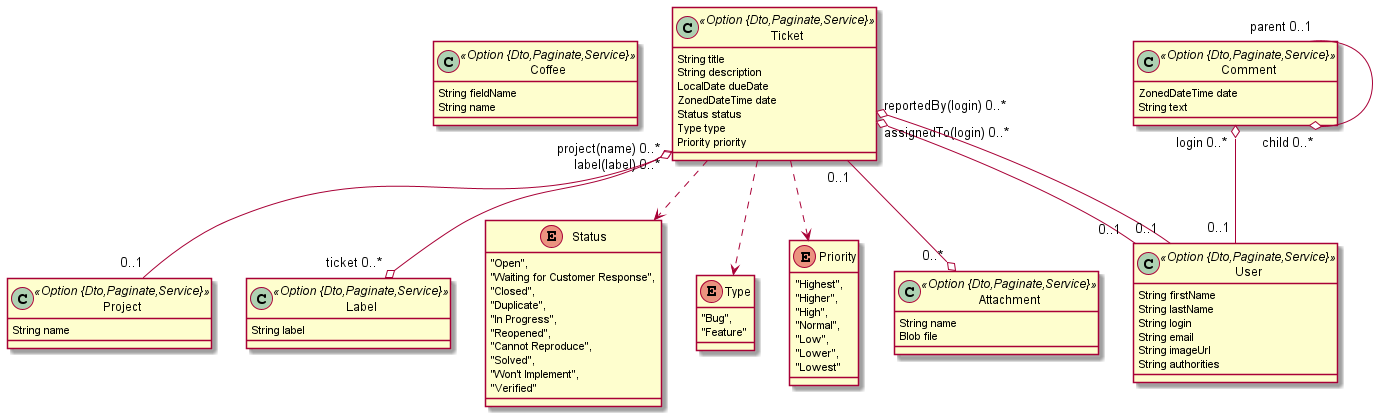
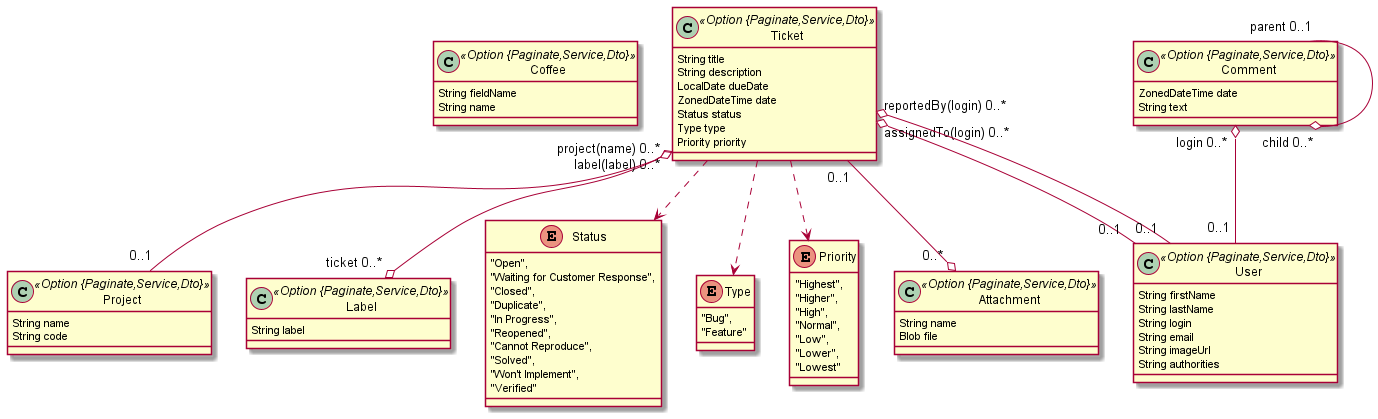
update entity

diff --git a/src/main/webapp/app/entities/project/update/project-update.component.html b/src/main/webapp/app/entities/project/update/project-update.component.html
@@ -17,6 +17,29 @@
           <label class="form-label" jhiTranslate="myFirstApp.project.name" for="field_name">Name</label>
           <input type="text" class="form-control" name="name" id="field_name" data-cy="name" formControlName="name" />
         </div>
+
+        <div class="row mb-3">
+          <label class="form-label" jhiTranslate="myFirstApp.project.code" for="field_code">Code</label>
+          <input type="text" class="form-control" name="code" id="field_code" data-cy="code" formControlName="code" />
+          <div *ngIf="editForm.get('code')!.invalid && (editForm.get('code')!.dirty || editForm.get('code')!.touched)">
+            <small
+              class="form-text text-danger"
+              *ngIf="editForm.get('code')?.errors?.minlength"
+              jhiTranslate="entity.validation.minlength"
+              [translateValues]="{ min: 3 }"
+            >
+              This field is required to be at least 3 characters.
+            </small>
+            <small
+              class="form-text text-danger"
+              *ngIf="editForm.get('code')?.errors?.maxlength"
+              jhiTranslate="entity.validation.maxlength"
+              [translateValues]="{ max: 5 }"
+            >
+              This field cannot be longer than 5 characters.
+            </small>
+          </div>
+        </div>
       </div>
 
       <div>

diff --git a/src/main/webapp/app/entities/project/list/project.component.html b/src/main/webapp/app/entities/project/list/project.component.html
@@ -44,6 +44,12 @@
               <fa-icon class="p-1" icon="sort"></fa-icon>
             </div>
           </th>
+          <th scope="col" jhiSortBy="code">
+            <div class="d-flex">
+              <span jhiTranslate="myFirstApp.project.code">Code</span>
+              <fa-icon class="p-1" icon="sort"></fa-icon>
+            </div>
+          </th>
           <th scope="col"></th>
         </tr>
       </thead>
@@ -53,6 +59,7 @@
             <a [routerLink]="['/project', project.id, 'view']">{{ project.id }}</a>
           </td>
           <td>{{ project.name }}</td>
+          <td>{{ project.code }}</td>
           <td class="text-end">
             <div class="btn-group">
               <button

diff --git a/src/main/webapp/app/entities/project/update/project-form.service.ts b/src/main/webapp/app/entities/project/update/project-form.service.ts
@@ -19,6 +19,7 @@ type ProjectFormDefaults = Pick<NewProject, 'id'>;
 type ProjectFormGroupContent = {
   id: FormControl<IProject['id'] | NewProject['id']>;
   name: FormControl<IProject['name']>;
+  code: FormControl<IProject['code']>;
 };
 
 export type ProjectFormGroup = FormGroup<ProjectFormGroupContent>;
@@ -39,6 +40,9 @@ export class ProjectFormService {
         }
       ),
       name: new FormControl(projectRawValue.name),
+      code: new FormControl(projectRawValue.code, {
+        validators: [Validators.minLength(3), Validators.maxLength(5)],
+      }),
     });
   }
 

diff --git a/src/main/webapp/app/entities/project/update/project-form.service.spec.ts b/src/main/webapp/app/entities/project/update/project-form.service.spec.ts
@@ -21,6 +21,7 @@ describe('Project Form Service', () => {
           expect.objectContaining({
             id: expect.any(Object),
             name: expect.any(Object),
+            code: expect.any(Object),
           })
         );
       });
@@ -32,6 +33,7 @@ describe('Project Form Service', () => {
           expect.objectContaining({
             id: expect.any(Object),
             name: expect.any(Object),
+            code: expect.any(Object),
           })
         );
       });

diff --git a/src/main/webapp/app/entities/project/project.test-samples.ts b/src/main/webapp/app/entities/project/project.test-samples.ts
@@ -5,13 +5,15 @@ export const sampleWithRequiredData: IProject = {
 };
 
 export const sampleWithPartialData: IProject = {
-  id: 86564,
-  name: 'compress redefine',
+  id: 56052,
+  name: 'dedicated Agent deposit',
+  code: 'users',
 };
 
 export const sampleWithFullData: IProject = {
-  id: 60153,
-  name: 'Awesome users',
+  id: 24713,
+  name: 'Borders Health',
+  code: 'Respo',
 };
 
 export const sampleWithNewData: NewProject = {

diff --git a/src/test/javascript/cypress/e2e/entity/project.cy.ts b/src/test/javascript/cypress/e2e/entity/project.cy.ts
@@ -162,6 +162,8 @@ describe('Project e2e test', () => {
     it('should create an instance of Project', () => {
       cy.get(`[data-cy="name"]`).type('District').should('have.value', 'District');
 
+      cy.get(`[data-cy="code"]`).type('inter').should('have.value', 'inter');
+
       cy.get(entityCreateSaveButtonSelector).click();
 
       cy.wait('@postEntityRequest').then(({ response }) => {

diff --git a/src/main/webapp/app/entities/project/detail/project-detail.component.html b/src/main/webapp/app/entities/project/detail/project-detail.component.html
@@ -18,6 +18,10 @@
         <dd>
           <span>{{ project.name }}</span>
         </dd>
+        <dt><span jhiTranslate="myFirstApp.project.code">Code</span></dt>
+        <dd>
+          <span>{{ project.code }}</span>
+        </dd>
       </dl>
 
       <button type="submit" (click)="previousState()" class="btn btn-info" data-cy="entityDetailsBackButton">

diff --git a/src/main/webapp/app/entities/project/project.model.ts b/src/main/webapp/app/entities/project/project.model.ts
@@ -1,6 +1,7 @@
 export interface IProject {
   id: number;
   name?: string | null;
+  code?: string | null;
 }
 
 export type NewProject = Omit<IProject, 'id'> & { id: null };

diff --git a/src/test/java/com/mycompany/myapp/web/rest/ProjectResourceIT.java b/src/test/java/com/mycompany/myapp/web/rest/ProjectResourceIT.java
@@ -34,6 +34,9 @@ class ProjectResourceIT {
     private static final String DEFAULT_NAME = "AAAAAAAAAA";
     private static final String UPDATED_NAME = "BBBBBBBBBB";
 
+    private static final String DEFAULT_CODE = "AAAAA";
+    private static final String UPDATED_CODE = "BBBBB";
+
     private static final String ENTITY_API_URL = "/api/projects";
     private static final String ENTITY_API_URL_ID = ENTITY_API_URL + "/{id}";
 
@@ -61,7 +64,7 @@ class ProjectResourceIT {
      * if they test an entity which requires the current entity.
      */
     public static Project createEntity(EntityManager em) {
-        Project project = new Project().name(DEFAULT_NAME);
+        Project project = new Project().name(DEFAULT_NAME).code(DEFAULT_CODE);
         return project;
     }
 
@@ -72,7 +75,7 @@ class ProjectResourceIT {
      * if they test an entity which requires the current entity.
      */
     public static Project createUpdatedEntity(EntityManager em) {
-        Project project = new Project().name(UPDATED_NAME);
+        Project project = new Project().name(UPDATED_NAME).code(UPDATED_CODE);
         return project;
     }
 
@@ -96,6 +99,7 @@ class ProjectResourceIT {
         assertThat(projectList).hasSize(databaseSizeBeforeCreate + 1);
         Project testProject = projectList.get(projectList.size() - 1);
         assertThat(testProject.getName()).isEqualTo(DEFAULT_NAME);
+        assertThat(testProject.getCode()).isEqualTo(DEFAULT_CODE);
     }
 
     @Test
@@ -129,7 +133,8 @@ class ProjectResourceIT {
             .andExpect(status().isOk())
             .andExpect(content().contentType(MediaType.APPLICATION_JSON_VALUE))
             .andExpect(jsonPath("$.[*].id").value(hasItem(project.getId().intValue())))
-            .andExpect(jsonPath("$.[*].name").value(hasItem(DEFAULT_NAME)));
+            .andExpect(jsonPath("$.[*].name").value(hasItem(DEFAULT_NAME)))
+            .andExpect(jsonPath("$.[*].code").value(hasItem(DEFAULT_CODE)));
     }
 
     @Test
@@ -144,7 +149,8 @@ class ProjectResourceIT {
             .andExpect(status().isOk())
             .andExpect(content().contentType(MediaType.APPLICATION_JSON_VALUE))
             .andExpect(jsonPath("$.id").value(project.getId().intValue()))
-            .andExpect(jsonPath("$.name").value(DEFAULT_NAME));
+            .andExpect(jsonPath("$.name").value(DEFAULT_NAME))
+            .andExpect(jsonPath("$.code").value(DEFAULT_CODE));
     }
 
     @Test
@@ -166,7 +172,7 @@ class ProjectResourceIT {
         Project updatedProject = projectRepository.findById(project.getId()).get();
         // Disconnect from session so that the updates on updatedProject are not directly saved in db
         em.detach(updatedProject);
-        updatedProject.name(UPDATED_NAME);
+        updatedProject.name(UPDATED_NAME).code(UPDATED_CODE);
         ProjectDTO projectDTO = projectMapper.toDto(updatedProject);
 
         restProjectMockMvc
@@ -182,6 +188,7 @@ class ProjectResourceIT {
         assertThat(projectList).hasSize(databaseSizeBeforeUpdate);
         Project testProject = projectList.get(projectList.size() - 1);
         assertThat(testProject.getName()).isEqualTo(UPDATED_NAME);
+        assertThat(testProject.getCode()).isEqualTo(UPDATED_CODE);
     }
 
     @Test
@@ -276,6 +283,7 @@ class ProjectResourceIT {
         assertThat(projectList).hasSize(databaseSizeBeforeUpdate);
         Project testProject = projectList.get(projectList.size() - 1);
         assertThat(testProject.getName()).isEqualTo(UPDATED_NAME);
+        assertThat(testProject.getCode()).isEqualTo(DEFAULT_CODE);
     }
 
     @Test
@@ -290,7 +298,7 @@ class ProjectResourceIT {
         Project partialUpdatedProject = new Project();
         partialUpdatedProject.setId(project.getId());
 
-        partialUpdatedProject.name(UPDATED_NAME);
+        partialUpdatedProject.name(UPDATED_NAME).code(UPDATED_CODE);
 
         restProjectMockMvc
             .perform(
@@ -305,6 +313,7 @@ class ProjectResourceIT {
         assertThat(projectList).hasSize(databaseSizeBeforeUpdate);
         Project testProject = projectList.get(projectList.size() - 1);
         assertThat(testProject.getName()).isEqualTo(UPDATED_NAME);
+        assertThat(testProject.getCode()).isEqualTo(UPDATED_CODE);
     }
 
     @Test

diff --git a/src/main/java/com/mycompany/myapp/web/rest/ProjectResource.java b/src/main/java/com/mycompany/myapp/web/rest/ProjectResource.java
@@ -9,6 +9,8 @@ import java.net.URISyntaxException;
 import java.util.List;
 import java.util.Objects;
 import java.util.Optional;
+import javax.validation.Valid;
+import javax.validation.constraints.NotNull;
 import org.slf4j.Logger;
 import org.slf4j.LoggerFactory;
 import org.springframework.beans.factory.annotation.Value;
@@ -54,7 +56,7 @@ public class ProjectResource {
      * @throws URISyntaxException if the Location URI syntax is incorrect.
      */
     @PostMapping("/projects")
-    public ResponseEntity<ProjectDTO> createProject(@RequestBody ProjectDTO projectDTO) throws URISyntaxException {
+    public ResponseEntity<ProjectDTO> createProject(@Valid @RequestBody ProjectDTO projectDTO) throws URISyntaxException {
         log.debug("REST request to save Project : {}", projectDTO);
         if (projectDTO.getId() != null) {
             throw new BadRequestAlertException("A new project cannot already have an ID", ENTITY_NAME, "idexists");
@@ -79,7 +81,7 @@ public class ProjectResource {
     @PutMapping("/projects/{id}")
     public ResponseEntity<ProjectDTO> updateProject(
         @PathVariable(value = "id", required = false) final Long id,
-        @RequestBody ProjectDTO projectDTO
+        @Valid @RequestBody ProjectDTO projectDTO
     ) throws URISyntaxException {
         log.debug("REST request to update Project : {}, {}", id, projectDTO);
         if (projectDTO.getId() == null) {
@@ -114,7 +116,7 @@ public class ProjectResource {
     @PatchMapping(value = "/projects/{id}", consumes = { "application/json", "application/merge-patch+json" })
     public ResponseEntity<ProjectDTO> partialUpdateProject(
         @PathVariable(value = "id", required = false) final Long id,
-        @RequestBody ProjectDTO projectDTO
+        @NotNull @RequestBody ProjectDTO projectDTO
     ) throws URISyntaxException {
         log.debug("REST request to partial update Project partially : {}, {}", id, projectDTO);
         if (projectDTO.getId() == null) {

diff --git a/src/main/java/com/mycompany/myapp/domain/Project.java b/src/main/java/com/mycompany/myapp/domain/Project.java
@@ -2,6 +2,7 @@ package com.mycompany.myapp.domain;
 
 import java.io.Serializable;
 import javax.persistence.*;
+import javax.validation.constraints.*;
 import org.hibernate.annotations.Cache;
 import org.hibernate.annotations.CacheConcurrencyStrategy;
 
@@ -24,6 +25,10 @@ public class Project implements Serializable {
 
     @Column(name = "name")
     private String name;
+
+    @Size(min = 3, max = 5)
+    @Column(name = "code", length = 5)
+    private String code;
 
     // jhipster-needle-entity-add-field - JHipster will add fields here
 
@@ -53,6 +58,19 @@ public class Project implements Serializable {
         this.name = name;
     }
 
+    public String getCode() {
+        return this.code;
+    }
+
+    public Project code(String code) {
+        this.setCode(code);
+        return this;
+    }
+
+    public void setCode(String code) {
+        this.code = code;
+    }
+
     // jhipster-needle-entity-add-getters-setters - JHipster will add getters and setters here
 
     @Override
@@ -78,6 +96,7 @@ public class Project implements Serializable {
         return "Project{" +
             "id=" + getId() +
             ", name='" + getName() + "'" +
+            ", code='" + getCode() + "'" +
             "}";
     }
 }

diff --git a/src/main/java/com/mycompany/myapp/service/dto/ProjectDTO.java b/src/main/java/com/mycompany/myapp/service/dto/ProjectDTO.java
@@ -2,6 +2,7 @@ package com.mycompany.myapp.service.dto;
 
 import java.io.Serializable;
 import java.util.Objects;
+import javax.validation.constraints.*;
 
 /**
  * A DTO for the {@link com.mycompany.myapp.domain.Project} entity.
@@ -12,6 +13,9 @@ public class ProjectDTO implements Serializable {
     private Long id;
 
     private String name;
+
+    @Size(min = 3, max = 5)
+    private String code;
 
     public Long getId() {
         return id;
@@ -27,6 +31,14 @@ public class ProjectDTO implements Serializable {
 
     public void setName(String name) {
         this.name = name;
+    }
+
+    public String getCode() {
+        return code;
+    }
+
+    public void setCode(String code) {
+        this.code = code;
     }
 
     @Override
@@ -56,6 +68,7 @@ public class ProjectDTO implements Serializable {
         return "ProjectDTO{" +
             "id=" + getId() +
             ", name='" + getName() + "'" +
+            ", code='" + getCode() + "'" +
             "}";
     }
 }
